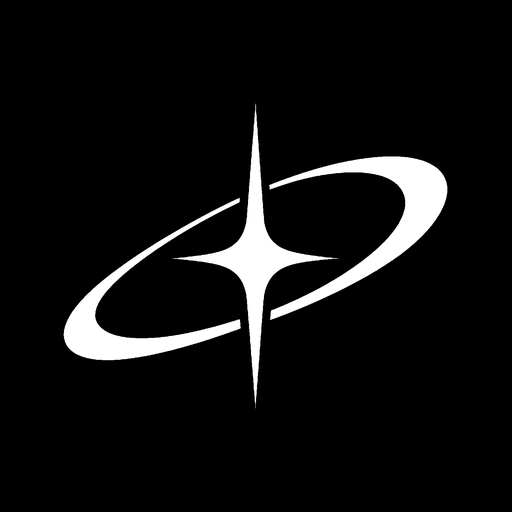
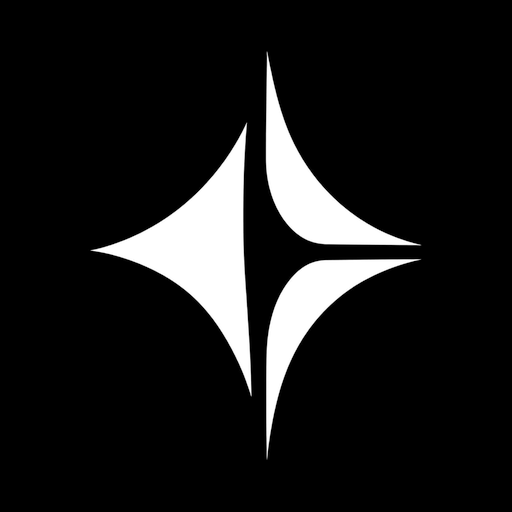
Swap in the new star mark and Arkeos lockup
Homepage, docs, and favicon now use the updated logo. Icons stay sharp on black.

Changed region(s): [[0.125, 0.0938, 0.875, 0.9062]]

diff --git a/src/components/docs-shell.tsx b/src/components/docs-shell.tsx
@@ -17,7 +17,7 @@ export function DocsShell({ children }: { children: React.ReactNode }) {
       <div className="relative mx-auto flex w-full max-w-6xl flex-col gap-4 px-4 py-4 sm:px-6 sm:py-6 lg:flex-row lg:items-start lg:gap-5 lg:px-8 lg:py-8">
         <aside className="card-surface flex w-full shrink-0 flex-col gap-6 rounded-card p-5 sm:p-6 lg:sticky lg:top-8 lg:h-[calc(100dvh-4rem)] lg:w-64 lg:gap-8 lg:p-6">
           <Link to="/" className="mb-2 ml-5 mt-4 self-start sm:ml-6 sm:mt-5" aria-label="Arkeos home">
-            <BrandMark className="h-12 w-auto" />
+            <BrandMark className="h-14 w-auto" />
           </Link>
 
           <nav aria-label="Docs" className="flex flex-col gap-1">

diff --git a/src/routes/__root.tsx b/src/routes/__root.tsx
@@ -18,9 +18,9 @@ export const Route = createRootRoute({
       { name: "twitter:site", content: site.xHandle },
     ],
     links: [
-      { rel: "icon", type: "image/svg+xml", href: "/favicon.svg" },
-      { rel: "icon", type: "image/png", href: "/favicon.png" },
-      { rel: "apple-touch-icon", href: "/apple-touch-icon.png" },
+      { rel: "icon", type: "image/svg+xml", href: "/favicon.svg?v=3" },
+      { rel: "icon", type: "image/png", href: "/favicon.png?v=3" },
+      { rel: "apple-touch-icon", href: "/apple-touch-icon.png?v=3" },
       { rel: "stylesheet", href: appCss },
       { rel: "preconnect", href: "https://fonts.googleapis.com" },
       {

diff --git a/src/components/brand-mark.tsx b/src/components/brand-mark.tsx
@@ -4,7 +4,7 @@ import { cn } from "@/lib/utils";
 export function BrandMark({ className }: { className?: string }) {
   return (
     <img
-      src="/logo.png"
+      src="/logo.png?v=3"
       alt=""
       className={cn("shrink-0 object-contain", className)}
       draggable={false}
@@ -15,7 +15,7 @@ export function BrandMark({ className }: { className?: string }) {
 export function HeroLockup() {
   return (
     <img
-      src="/wordmark.png"
+      src="/wordmark.png?v=3"
       alt="Arkeos"
       className="mx-auto block h-auto w-[min(88vw,26rem)] object-contain"
       draggable={false}
